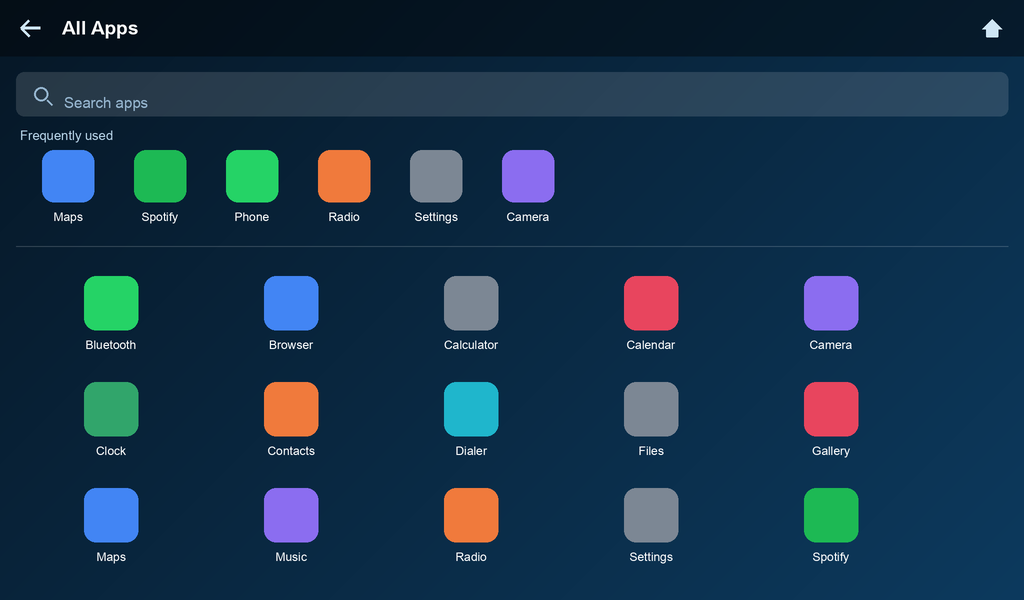
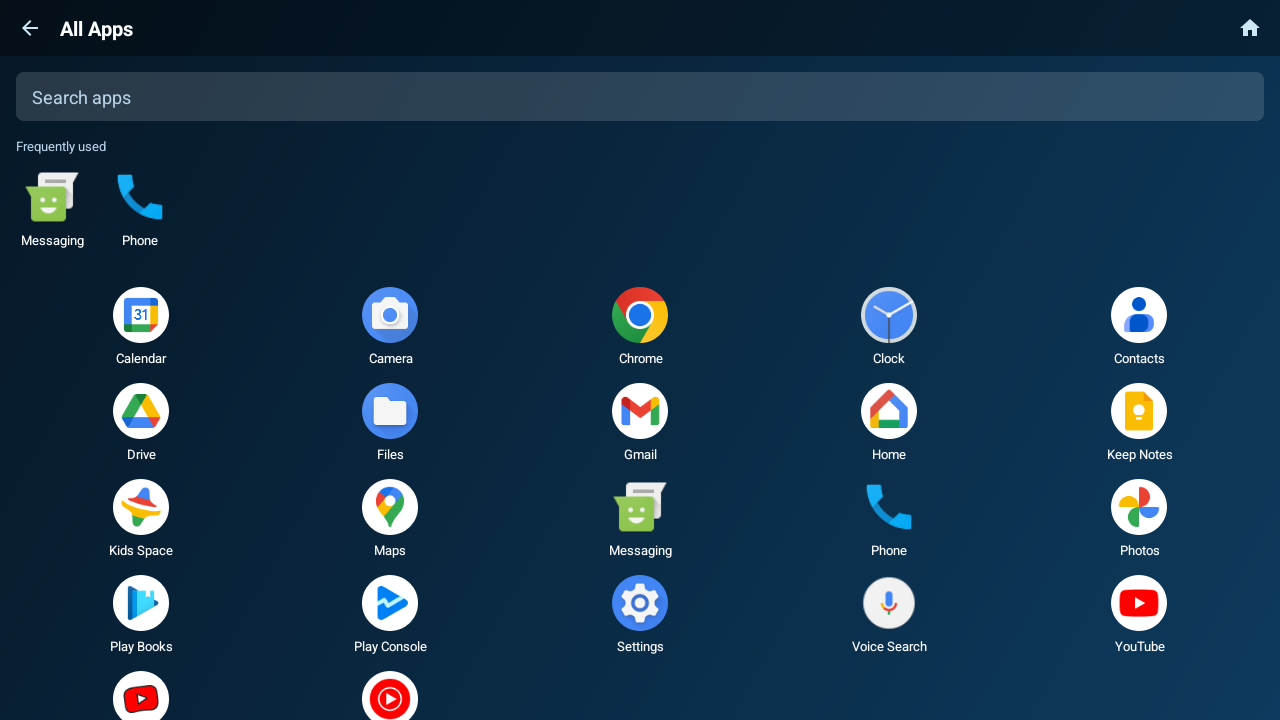
Replace UI renders with device screenshots

diff --git a/README.md b/README.md
@@ -8,19 +8,24 @@ it runs all the way back to **Android 4.4 (KitKat)** so it works on old units to
 
 ---
 
-## Interface
+## Screenshots
 
-| Dashboard | App drawer |
-|---|---|
-| ![Home dashboard](docs/screenshots/dashboard.png) | ![App drawer](docs/screenshots/drawer.png) |
+### Dashboard
+
+Clock, date, current conditions and a three-day forecast on the left; media and
+phone on the right; quick-launch favourites along the top.
+
+![Home dashboard](docs/screenshots/dashboard.png)
+
+### App drawer
+
+Search, a frequently-used strip, and the full app grid.
+
+![App drawer](docs/screenshots/drawer.png)
 
 | Settings | Colour themes |
 |---|---|
 | ![Settings](docs/screenshots/settings.png) | ![Colour theme picker](docs/screenshots/gradients.png) |
-
-> These are 1024×600 renders of the interface, matching the shipped layouts and
-> colour values. Device captures will replace them once the app is running on
-> hardware — see [Contributing](#contributing).
 
 ---
 
